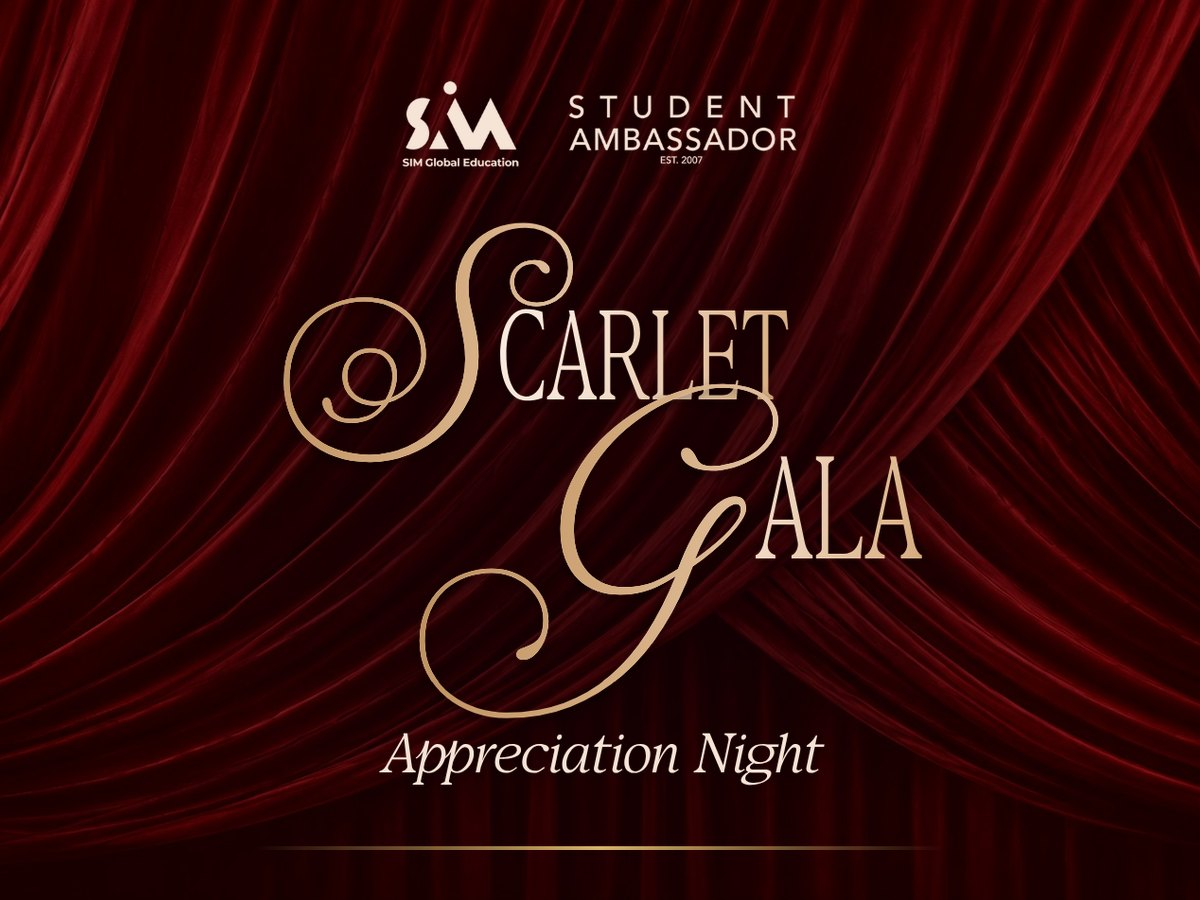
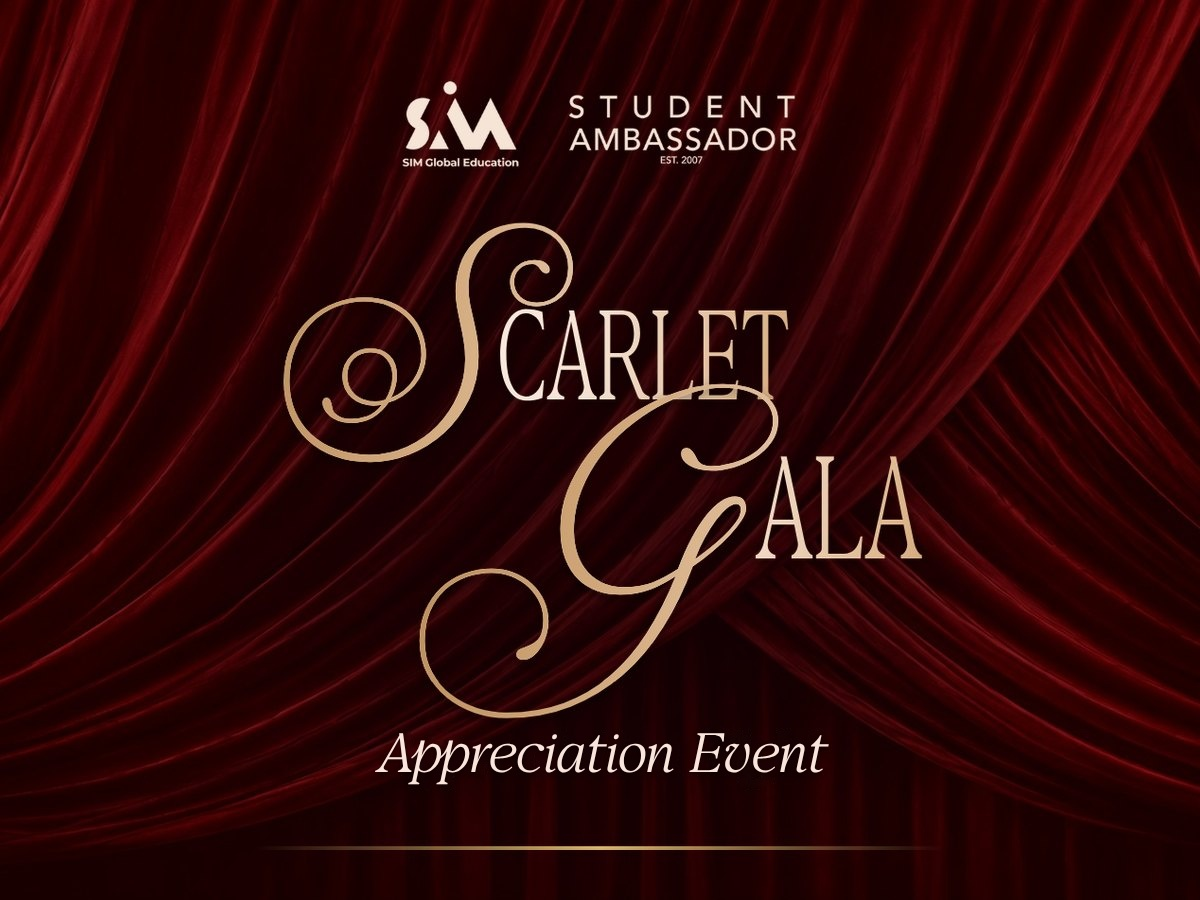
change appreciation night to appreciation event

Changed region(s): [[0.3083, 0.8089, 0.7092, 0.8711]]

diff --git a/index.html b/index.html
@@ -3,8 +3,8 @@
 <head>
   <meta charset="UTF-8">
   <meta name="viewport" content="width=device-width, initial-scale=1.0, viewport-fit=cover">
-  <title>Student Ambassador Appreciation Night — Scarlet Gala</title>
-  <meta name="description" content="You have an invitation to the Student Ambassador Appreciation Night.">
+  <title>Student Ambassador Appreciation Event — Scarlet Gala</title>
+  <meta name="description" content="You have an invitation to the Student Ambassador Appreciation Event.">
   <meta name="theme-color" content="#1a0306">
   <!-- Mencegah mode gelap otomatis di browser HP menggelapkan kertas -->
   <meta name="color-scheme" content="only light">
@@ -79,7 +79,7 @@
         <div class="cover__card paper">
           <p class="cover__label">Invitation</p>
           <p class="cover__sub">Student Ambassador</p>
-          <h2 class="cover__title"><span class="gt"><span class="sw sw-A">A</span>ppreciation <span class="sw sw-N">N</span>ight</span></h2>
+          <h2 class="cover__title"><span class="gt"><span class="sw sw-A">A</span>ppreciation <span class="sw sw-E">E</span>vent</span></h2>
           <span class="cover__line" aria-hidden="true"></span>
           <button class="seal-btn" id="coverSeal" type="button" aria-label="Tap the seal to read details">
             <img src="assets/seal-sa.png" alt="">
@@ -131,7 +131,7 @@
           <article class="details-card paper reveal">
             <p class="details-card__invite">You’re Invited To Attend</p>
             <p class="details-card__sub">Student Ambassador</p>
-            <h2 class="details-card__title"><span class="gt"><span class="sw sw-A">A</span>ppreciation <span class="sw sw-N">N</span>ight</span></h2>
+            <h2 class="details-card__title"><span class="gt"><span class="sw sw-A">A</span>ppreciation <span class="sw sw-E">E</span>vent</span></h2>
             <span class="cover__line" aria-hidden="true"></span>
 
             <!-- GANTI: isi detail acara di sini -->
@@ -163,7 +163,7 @@
         <section class="block" id="about">
           <header class="band band--right"><h2><span class="gt"><span class="sw sw-W">W</span>hat is SAAE?</span></h2></header>
           <div class="block__body block__body--tint">
-            <p class="lead">Student Ambassador Appreciation Night celebrates our student ambassadors’ dedication, recognises outstanding contributions, strengthens friendships, inspires continued involvement, and creates lasting memories for everyone who has contributed throughout the year.</p>
+            <p class="lead">Student Ambassador Appreciation Event celebrates our student ambassadors’ dedication, recognises outstanding contributions, strengthens friendships, inspires continued involvement, and creates lasting memories for everyone who has contributed throughout the year.</p>
             <figure class="memories">
               <figcaption>A look back at SAAE 2025 · 21 Nov 2025</figcaption>
               <div class="memories__grid">
@@ -217,7 +217,7 @@
 
         <footer class="footer">
           <img class="footer__logo" src="assets/sa-logo.png" alt="SIM Global Education Student Ambassador">
-          <span class="footer__title"><span class="gt"><span class="sw sw-A">A</span>ppreciation <span class="sw sw-N">N</span>ight</span></span>
+          <span class="footer__title"><span class="gt"><span class="sw sw-A">A</span>ppreciation <span class="sw sw-E">E</span>vent</span></span>
         </footer>
       </div>
 
@@ -244,7 +244,7 @@
                     <p class="tk-name1 tk-foil"><span class="tk-sw tk-sw-S">S</span>carlet</p>
                     <p class="tk-name2 tk-foil"><span class="tk-sw tk-sw-G">G</span>ala</p>
                     <div class="tk-rule"></div>
-                    <p class="tk-sub tk-sub--bottom">Appreciation Night</p>
+                    <p class="tk-sub tk-sub--bottom">Appreciation Event</p>
                   </div>
                   <div class="tk-divider"></div>
                   <div class="tk-info">
@@ -257,7 +257,7 @@
                   </div>
                 </div>
                 <div class="tk-stub">
-                  <p class="tk-g-kicker">Student Ambassador<br>Appreciation Night</p>
+                  <p class="tk-g-kicker">Student Ambassador<br>Appreciation Event</p>
                   <span class="tk-g-rule tk-g-rule--top"></span>
                   <div class="tk-g-lock">
                     <p class="tk-g-cap tk-g-cap1 tk-foil"><span class="tk-sw tk-sw-L">L</span><span class="tk-g-rest">ucky</span></p>

diff --git a/js/script.js b/js/script.js
@@ -1,5 +1,5 @@
 /* =========================================================
-   STUDENT AMBASSADOR APPRECIATION NIGHT — script.js
+   STUDENT AMBASSADOR APPRECIATION EVENT — script.js
    ========================================================= */
 
 /* ---------------------------------------------------------

diff --git a/README.md b/README.md
@@ -1,4 +1,4 @@
-# Student Ambassador Appreciation Night — Invitation Website
+# Student Ambassador Appreciation Event — Invitation Website
 
 An interactive digital invitation for the **Student Ambassador Appreciation Event (SAAE) 2026**.
 Guests open a wax-sealed envelope, read the invitation, and RSVP — all in the browser.
